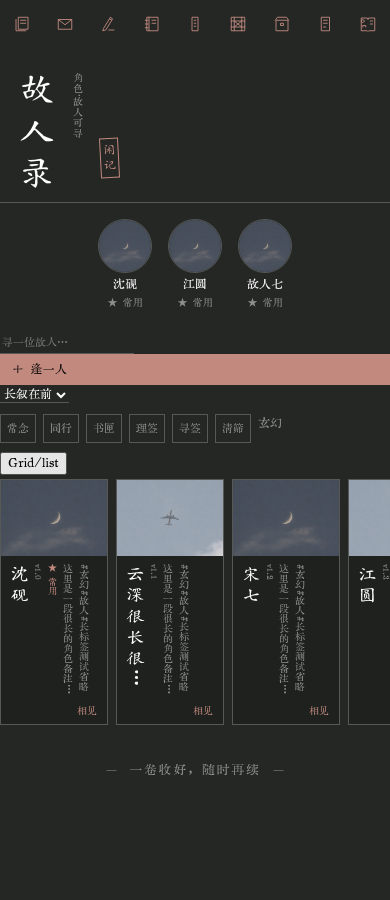
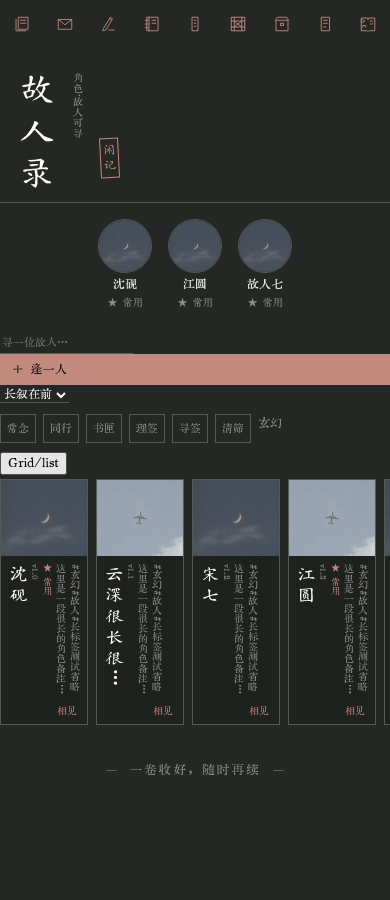
fix: narrow collection rails and simplify grid tiles

diff --git a/assets/folio/folio.css b/assets/folio/folio.css
@@ -130,7 +130,7 @@ html.sb-bar.sb-folio #rm_extensions_block .sb-folio-card:has(:is(#extensions_det
 /* List: narrow vertical posts in a horizontal rail. Grid: square tiles with round avatars. */
 html.sb-bar.sb-folio :is(#rm_print_characters_block,#user_avatar_block){display:flex!important;flex-direction:row!important;flex-wrap:nowrap!important;align-items:stretch;gap:8px;width:100%;height:auto;max-width:100%;overflow-x:auto!important;overflow-y:hidden!important;padding:4px 0 12px!important;box-sizing:border-box;scrollbar-width:thin}
 html.sb-bar.sb-folio body.charListGrid #rm_print_characters_block,html.sb-bar.sb-folio #user_avatar_block.gridView{display:grid!important;grid-template-columns:repeat(3,minmax(0,1fr))!important;overflow:visible!important}
-html.sb-bar.sb-folio :is(#rm_print_characters_block,#user_avatar_block) :is(.character_select,.group_select,.avatar-container){position:relative;display:block!important;flex:0 0 108px!important;min-width:0!important;width:108px!important;max-width:none!important;height:246px;margin:0!important;padding:84px 7px 25px!important;box-sizing:border-box;border:1px solid var(--sb-bar-line)!important;outline:none!important;border-radius:0;background:var(--sb-bar-paper);content-visibility:visible;contain-intrinsic-size:none;overflow:hidden}
+html.sb-bar.sb-folio :is(#rm_print_characters_block,#user_avatar_block) :is(.character_select,.group_select,.avatar-container){position:relative;display:block!important;flex:0 0 88px!important;min-width:0!important;width:88px!important;max-width:none!important;height:246px;margin:0!important;padding:84px 6px 25px!important;box-sizing:border-box;border:1px solid var(--sb-bar-line)!important;outline:none!important;border-radius:0;background:var(--sb-bar-paper);content-visibility:visible;contain-intrinsic-size:none;overflow:hidden}
 html.sb-bar.sb-folio :is(#rm_print_characters_block,#user_avatar_block) :is(.character_select,.group_select,.avatar-container) .avatar{position:absolute;inset:0 0 auto 0;width:100%!important;height:76px!important;margin:0!important;padding:0;border:0!important;border-radius:0!important;overflow:hidden}
 html.sb-bar.sb-folio :is(#rm_print_characters_block,#user_avatar_block) .avatar img{width:100%!important;height:100%!important;object-fit:cover;border-radius:0!important;border:0;box-shadow:none}
 html.sb-bar.sb-folio :is(#rm_print_characters_block,#user_avatar_block) :is(.character_select_container,.group_select_container){position:static!important;display:block!important;width:100%!important;min-width:0;max-width:none;flex:none!important;margin:0;padding:0}
@@ -151,17 +151,18 @@ html.sb-bar.sb-folio #user_avatar_block .avatar_container_states{display:none!im
 html.sb-bar.sb-folio :is(#rm_print_characters_block,#user_avatar_block) :is(.character_select,.group_select,.avatar-container):after{content:'相见';position:absolute;right:10px;bottom:6px;margin:0;padding:0;writing-mode:horizontal-tb;font:10px/1.4 var(--sb-type-body);color:var(--sb-bar-accent)}
 html.sb-bar.sb-folio #user_avatar_block .avatar-container:after{content:'用此帖'}
 /* Vertical text belongs only to the horizontally scrolling list. */
-html.sb-bar.sb-folio :is(body:not(.charListGrid) #rm_print_characters_block,#user_avatar_block:not(.gridView)) :is(.character_select_container,.group_select_container){display:flex!important;flex-direction:row!important;gap:4px;height:134px;align-items:flex-start}
+html.sb-bar.sb-folio :is(body:not(.charListGrid) #rm_print_characters_block,#user_avatar_block:not(.gridView)) :is(.character_select_container,.group_select_container){display:flex!important;flex-direction:row!important;gap:2px;height:134px;align-items:flex-start}
 html.sb-bar.sb-folio :is(body:not(.charListGrid) #rm_print_characters_block,#user_avatar_block:not(.gridView)) .character_name_block{display:contents!important}
 html.sb-bar.sb-folio :is(body:not(.charListGrid) #rm_print_characters_block,#user_avatar_block:not(.gridView)) :is(.ch_name,.ch_description,.ch_additional_info,.sb-folio-collection-flags,.tags_inline){writing-mode:vertical-rl!important;text-orientation:mixed;flex:none!important;width:12px!important;max-width:12px!important;height:100%!important;max-height:100%!important;margin:0!important;line-height:12px!important;white-space:nowrap;overflow:hidden;text-overflow:ellipsis}
 html.sb-bar.sb-folio :is(body:not(.charListGrid) #rm_print_characters_block,#user_avatar_block:not(.gridView)) .ch_name{width:21px!important;max-width:21px!important;font-size:17px!important;line-height:21px!important}
 html.sb-bar.sb-folio :is(body:not(.charListGrid) #rm_print_characters_block,#user_avatar_block:not(.gridView)) .ch_additional_info{width:9px!important;max-width:9px!important;font-size:8px!important;line-height:9px!important}
-html.sb-bar.sb-folio body.charListGrid #rm_print_characters_block :is(.character_select,.group_select),html.sb-bar.sb-folio #user_avatar_block.gridView .avatar-container{width:100%!important;height:auto!important;aspect-ratio:1;padding:55px 5px 3px!important}
-html.sb-bar.sb-folio body.charListGrid #rm_print_characters_block .avatar,html.sb-bar.sb-folio #user_avatar_block.gridView .avatar{inset:4px auto auto 50%;transform:translateX(-50%);width:48px!important;height:48px!important;border-radius:50%!important}
+html.sb-bar.sb-folio body.charListGrid #rm_print_characters_block :is(.character_select,.group_select),html.sb-bar.sb-folio #user_avatar_block.gridView .avatar-container{width:100%!important;height:auto!important;aspect-ratio:1;padding:66px 6px 4px!important}
+html.sb-bar.sb-folio body.charListGrid #rm_print_characters_block .avatar,html.sb-bar.sb-folio #user_avatar_block.gridView .avatar{inset:8px auto auto 50%;transform:translateX(-50%);width:52px!important;height:52px!important;border-radius:50%!important}
 html.sb-bar.sb-folio body.charListGrid #rm_print_characters_block .avatar img,html.sb-bar.sb-folio #user_avatar_block.gridView .avatar img{border-radius:50%!important}
-html.sb-bar.sb-folio body.charListGrid #rm_print_characters_block .ch_name,html.sb-bar.sb-folio #user_avatar_block.gridView .ch_name{font-size:12px!important;line-height:14px!important;text-align:center!important;flex:0 1 auto}
+html.sb-bar.sb-folio body.charListGrid #rm_print_characters_block .ch_name,html.sb-bar.sb-folio #user_avatar_block.gridView .ch_name{font-size:13px!important;line-height:18px!important;text-align:center!important;flex:0 1 auto}
 html.sb-bar.sb-folio :is(body.charListGrid #rm_print_characters_block,#user_avatar_block.gridView) .character_name_block{justify-content:center}
-html.sb-bar.sb-folio :is(body.charListGrid #rm_print_characters_block,#user_avatar_block.gridView) :is(.ch_description,.tags_inline,.sb-folio-collection-flags){height:10px;line-height:10px!important;font-size:9px!important;margin:1px 0 0;text-align:center}
+html.sb-bar.sb-folio :is(body.charListGrid #rm_print_characters_block,#user_avatar_block.gridView) .sb-folio-collection-flags{height:14px;line-height:14px!important;font-size:10px!important;margin:4px 0 0;text-align:center}
+html.sb-bar.sb-folio :is(body.charListGrid #rm_print_characters_block,#user_avatar_block.gridView) :is(.ch_description,.tags_inline,.ch_additional_info){display:none!important}
 html.sb-bar.sb-folio :is(body.charListGrid #rm_print_characters_block,#user_avatar_block.gridView) :is(.character_select,.group_select,.avatar-container):after{content:none}
 html.sb-bar.sb-folio :is(#rm_print_characters_block,#user_avatar_block) :is(.empty_block,.text_block,.hidden_block,.avatar_upload){grid-column:1/-1}
 html.sb-bar.sb-folio .sb-favs>.sb-label{display:none!important}
@@ -262,7 +263,7 @@ html.sb-bar.sb-folio #Backgrounds #bg_tabs .bg_tab_panel{height:auto!important;o
 #sb-root.sb-folio-phone .sb-srow{min-height:39px;font:12px var(--sb-type-body)}
 .sb-folio-card [hidden],.sb-folio-editor[hidden]{display:none!important}
 @media(max-width:380px){html.sb-bar.sb-folio .sb-folio-colors{gap:9px}.sb-folio-colors fieldset{padding:7px}html.sb-bar.sb-folio .sb-folio-card{flex-basis:156px!important;width:156px!important}}
-html.sb-bar.sb-folio #world_popup_new:before{content:'＋ 添一笺'!important}html.sb-bar.sb-folio #create_dummy_persona:before{content:'＋ 落一名'!important}html.sb-bar.sb-folio #rm_button_create:before{content:'＋ 逢一人'!important}html.sb-bar.sb-folio #favorite_button:before{content:'☆ 常念'!important}html.sb-bar.sb-folio #favorite_button.fav_on:before{content:'★ 常念'!important}html.sb-bar.sb-folio #world_button:before{content:'关联世界书'!important}html.sb-bar.sb-folio #char_connections_button:before{content:'名帖'!important}html.sb-bar.sb-folio #Backgrounds .mobile-only-menu-toggle{display:flex!important;align-items:center;justify-content:center;border-radius:0!important;z-index:4}html.sb-bar.sb-folio #Backgrounds :is(.jg-menu,.bg_folder_tile_menu){border-radius:0!important;box-shadow:none!important}
+html.sb-bar.sb-folio #world_popup_new:before{content:'＋ 添一笺'!important}html.sb-bar.sb-folio #create_dummy_persona:before{content:'＋ 落一名'!important}html.sb-bar.sb-folio #rm_button_create:before{content:'＋ 逢一人'!important}html.sb-bar.sb-folio #favorite_button:before{content:'☆ 常念'!important}html.sb-bar.sb-folio #favorite_button.fav_on:before{content:'★ 常念'!important}html.sb-bar.sb-folio #world_button:before{content:'世间录'!important}html.sb-bar.sb-folio #char_connections_button:before{content:'名帖'!important}html.sb-bar.sb-folio #Backgrounds .mobile-only-menu-toggle{display:flex!important;align-items:center;justify-content:center;border-radius:0!important;z-index:4}html.sb-bar.sb-folio #Backgrounds :is(.jg-menu,.bg_folder_tile_menu){border-radius:0!important;box-shadow:none!important}
 html.sb-bar.sb-folio :is(.sb-page-bartenders,.sb-page-bartender) .sb-head:after{left:0;right:0}
 html.sb-bar.sb-folio .sb-folio-lines>span{position:relative;display:block;padding:0}
 html.sb-bar.sb-folio .sb-folio-lines i{position:absolute;left:50%;top:32px;transform:translateX(-50%);height:auto}

diff --git a/tests/fixtures/folio-runtime.html b/tests/fixtures/folio-runtime.html
@@ -40,7 +40,7 @@
 <section id="rm_extensions_block" class="drawer-content openDrawer" hidden><div class="extensions_block"><div class="alignitemscenter"><div id="extensions_details" class="menu_button menu_button_icon interactable" role="button" tabindex="0">管理扩展</div><div id="third_party_extension_button" class="menu_button menu_button_icon interactable" role="button" tabindex="0">安装扩展</div></div><div id="extensions_settings2"><div class="inline-drawer"><div class="inline-drawer-header">正则</div><div class="inline-drawer-content"><input id="native-regex" value="pattern"></div></div><details id="native-extension-detail"><summary>代码渲染</summary><div class="inline-drawer"><div class="inline-drawer-header">渲染设置</div><div class="inline-drawer-content"><input value="render"></div></div></details></div></div></section>
 <section id="PersonaManagement" class="drawer-content openDrawer" hidden><div id="persona-management-block"><div class="persona_management_left_column"><button id="persona_grid_toggle">Grid/list</button><button id="create_dummy_persona">New persona</button><div id="user_avatar_block"><div class="avatar-container selected" data-avatar-id="p1"><div class="avatar"><img src="../../assets/opening/light-avatar.jpg"></div></div></div></div><div class="persona_management_right_column"><h4>Persona</h4><textarea id="persona_description">行过山川，听人说话。</textarea><span id="your_name">余何圆</span><button id="persona_rename_button">Rename</button><button id="persona_set_image_button">Photo</button><button id="persona_duplicate_button">Duplicate</button><button id="persona_lore_button">Lore</button><button id="persona_delete_button">Delete</button><button id="lock_persona_default">Default</button><button id="lock_persona_to_char">Character</button><button id="lock_user_name">Chat</button><label>插入位置<select id="persona_description_position"><option value="0">提示词管理器</option><option value="1">作者注释</option></select></label><label><input id="persona_show_notifications" type="checkbox">切换时提醒</label></div></div></section>
 <section id="rm_characters_block" class="drawer-content openDrawer" hidden><input id="character_search_bar" class="text_pole" type="search" placeholder="Search..."><div id="rm_button_create" class="menu_button fa-solid fa-user-plus" title="Create New Character"></div><select id="character_sort_order"><option data-field="chat_size" data-order="desc" value="most">Most chats</option><option data-field="name" data-order="asc" value="name">A-Z</option></select><div class="rm_tag_filter"><span class="tag actionable filterByFavorites" role="button" tabindex="0" style="background-color:rgba(255,255,0,.5)"><span class="tag_name fa-solid fa-star" title="Native filter"></span></span><span class="tag actionable filterByGroups" role="button" tabindex="0" style="background-color:rgba(255,255,0,.5)"><span class="tag_name fa-solid fa-star" title="Native filter"></span></span><span class="tag actionable filterByFolder" role="button" tabindex="0" style="background-color:rgba(255,255,0,.5)"><span class="tag_name fa-solid fa-star" title="Native filter"></span></span><span class="tag actionable manageTags" role="button" tabindex="0" style="background-color:rgba(255,255,0,.5)"><span class="tag_name fa-solid fa-star" title="Native filter"></span></span><span class="tag actionable showTagList" role="button" tabindex="0" style="background-color:rgba(255,255,0,.5)"><span class="tag_name fa-solid fa-star" title="Native filter"></span></span><span class="tag actionable clearAllFilters" role="button" tabindex="0" style="background-color:rgba(255,255,0,.5)"><span class="tag_name fa-solid fa-star" title="Native filter"></span></span><span class="tag"><span class="tag_name">玄幻</span></span></div><button id="charListGridToggle">Grid/list</button><div id="rm_print_characters_block"><div class="character_select" chid="0"><div class="avatar"><img src="../../assets/opening/dark-avatar.jpg"></div><div class="character_select_container"><span class="ch_name">沈砚</span><span class="ch_description">檐下有雨，灯下有书。</span></div></div></div></section>
-<section id="rm_ch_create_block" class="drawer-content openDrawer" hidden><form id="form_create"><div id="avatar-and-name-block"><div id="avatar_div"><div id="avatar_div_div"><img id="avatar_load_preview" src="../../assets/opening/dark-avatar.jpg"></div></div><div id="name_div"><input id="character_name_pole" value="沈砚"></div><div id="avatar_controls"><button id="favorite_button">Favorite</button></div></div><div id="descriptionWrapper"><div id="description_div"><textarea id="description_textarea">山中旧友</textarea></div></div><div id="firstMessageWrapper"><textarea id="firstmessage_textarea">坐一会儿？</textarea></div></form></section>
+<section id="rm_ch_create_block" class="drawer-content openDrawer" hidden><form id="form_create"><div id="avatar-and-name-block"><div id="avatar_div"><div id="avatar_div_div"><img id="avatar_load_preview" src="../../assets/opening/dark-avatar.jpg"></div></div><div id="name_div"><input id="character_name_pole" value="沈砚"></div><div id="avatar_controls"><button id="favorite_button">Favorite</button><button id="world_button" title="Link world info">World info</button></div></div><div id="descriptionWrapper"><div id="description_div"><textarea id="description_textarea">山中旧友</textarea></div></div><div id="firstMessageWrapper"><textarea id="firstmessage_textarea">坐一会儿？</textarea></div></form></section>
 </main><div id="chat" hidden><div class="mes" is_user="false"><div class="mesAvatarWrapper"><div class="avatar"><img src="../../assets/opening/dark-avatar.jpg"></div><span class="timestamp">11月12日</span></div><div class="mes_block"><div class="ch_name"><span class="name_text">沈砚</span><div class="mes_buttons"><button id="native-edit">Edit</button></div></div><div class="mes_text"><p>疏雨过山，花影落在半卷书页上。</p></div></div></div><form id="send_form"><textarea id="send_textarea" placeholder="输入想发送的消息" style="--progWidth:3px;border-top:3px solid transparent"></textarea></form>
 <script type="module">
 import{applyPalette}from'../../src/palette.mjs';import{applyBarTheme}from'../../src/bar-theme.mjs';import{mountPages}from'../../src/bar-pages.mjs';import{mountChat,unmountChat}from'../../src/bar-chat.mjs';import{createAppearanceBridge}from'../../src/appearance-api.mjs';import{configureSplash,openSplashSettings,updatePersonalProfile}from'../../src/splash.mjs';import{seedFolioColors}from'../../src/folio-theme.mjs';

diff --git a/docs/folio-review-fixes.md b/docs/folio-review-fixes.md
@@ -13,7 +13,7 @@
 - 百工匣：修复两个入口的白色焦点框与点击区域溢出，键盘焦点使用主题色提示；下方分组补齐四边，原生 details 包裹时避免双层框。
 - 名帖：保留原来的左右布局与紧凑尺寸，合为同底色、同外框的一张帖子；左侧上方长方形头像占约三分之一，下方姓名与操作紧凑竖排；右侧仍是“名帖所系”及三个等距竖栏，两侧没有间隙，只以一条竖线分隔；关联世界书显示为“系一卷”；其他设置从标题下方展开。三个范围显示“常用此帖／系于此人／用于此叙”，分别对应原生默认人设、当前角色、当前聊天的锁定按钮。其他页面保留原有页边距。名帖采用较深的同色底。
 
-- 故人录与其他名帖：列表用窄长名帖卡，长方形头像在上，下方姓名、备注、版本、标签与常用/绑定标记竖排，所有条目在同一行左右滑动。网格模式保留每行三个方格、圆头像，姓名与补回的信息横排，文字单行超出省略；去掉置顶区残留的双短横线；“新建名帖”显示为“落一名”。搜索改为“寻一位故人”，排序文案随主题切换；原生筛选入口改成“常念／同行／书匣／理签／寻签／清筛”小印签，保留选中与排除状态。“新建角色”显示为“逢一人”。首页快捷入口与顶栏共用这一套线条图标；聊天输入框统一行高与上下留白，保留多行展开与原生进度条。
+- 故人录与其他名帖：列表用 88px 宽的窄长名帖卡，长方形头像在上，下方姓名、备注、版本、标签与常用/绑定标记竖排，所有条目在同一行左右滑动。网格模式保留每行三个方格、圆头像，放大头像并放松间距，只保留姓名和常用/绑定标记，备注、标签与版本保留在列表模式；长姓名单行超出省略；去掉置顶区残留的双短横线；“新建名帖”显示为“落一名”。搜索改为“寻一位故人”，排序文案随主题切换；原生筛选入口改成“常念／同行／书匣／理签／寻签／清筛”小印签，保留选中与排除状态。“新建角色”显示为“逢一人”；其人页“关联世界书”显示为“世间录”。首页快捷入口与顶栏共用这一套线条图标；聊天输入框统一行高与上下留白，保留多行展开与原生进度条。
 
 ## 本地审阅图
 
